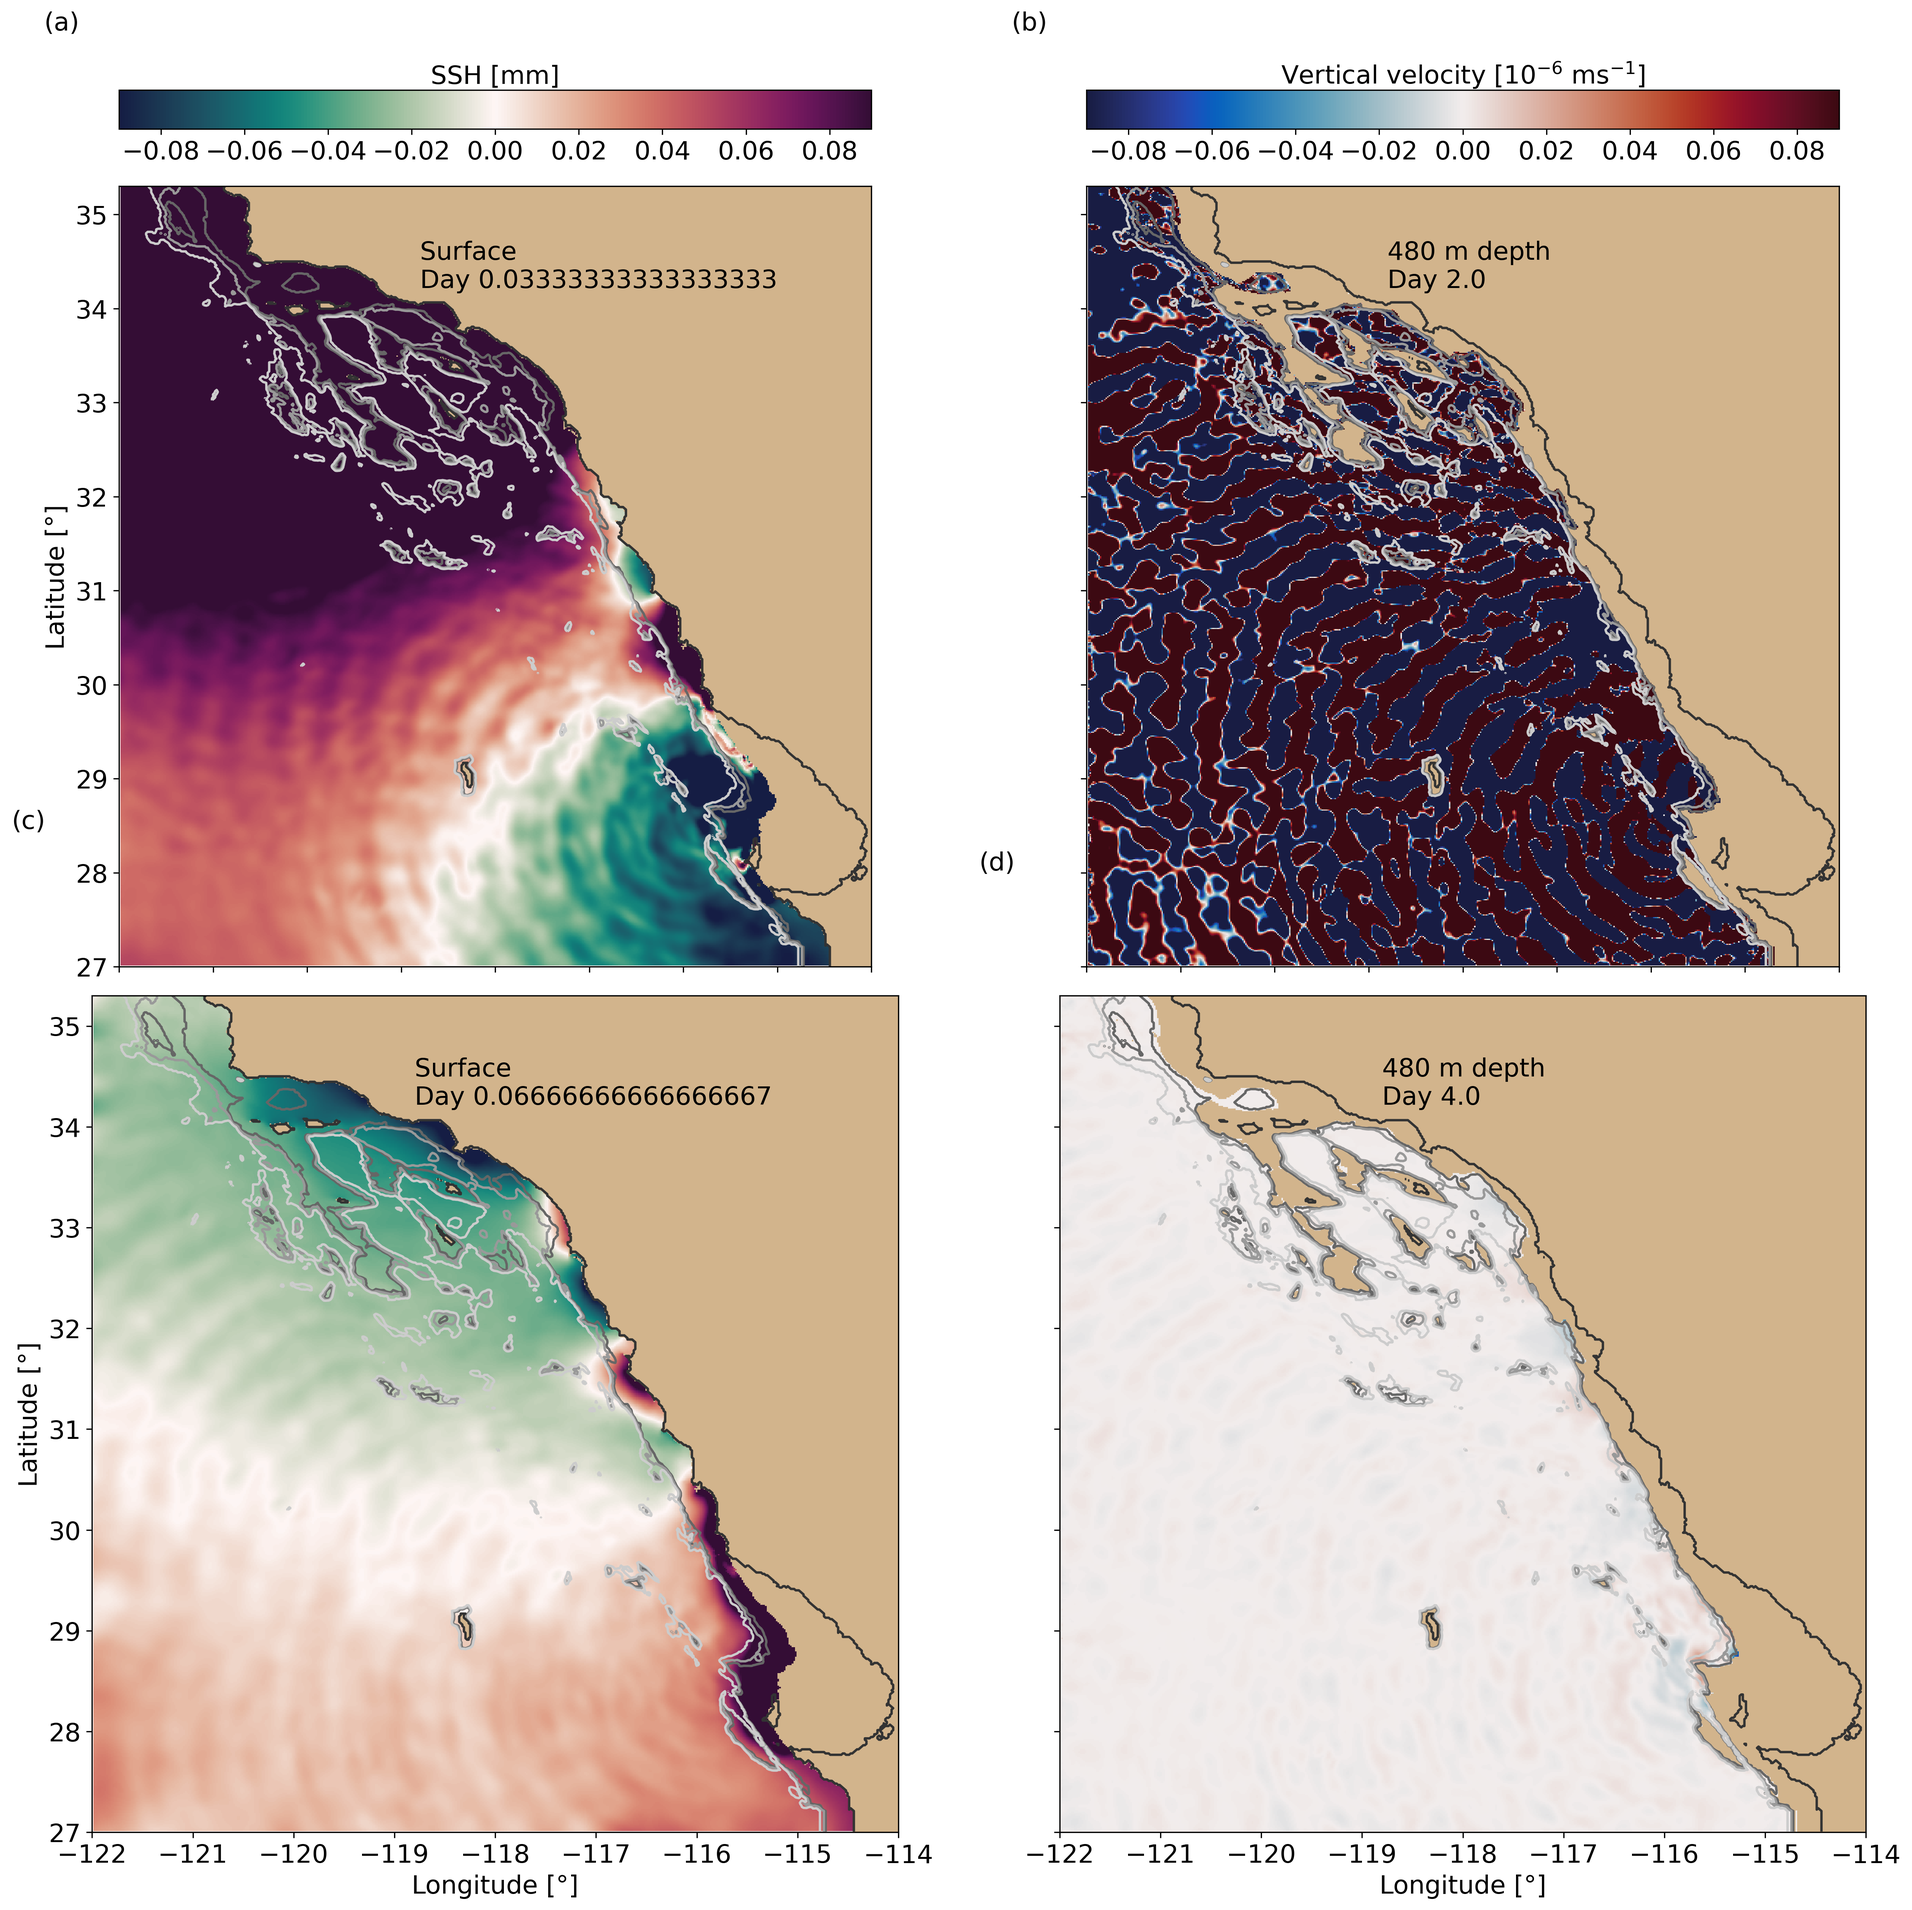
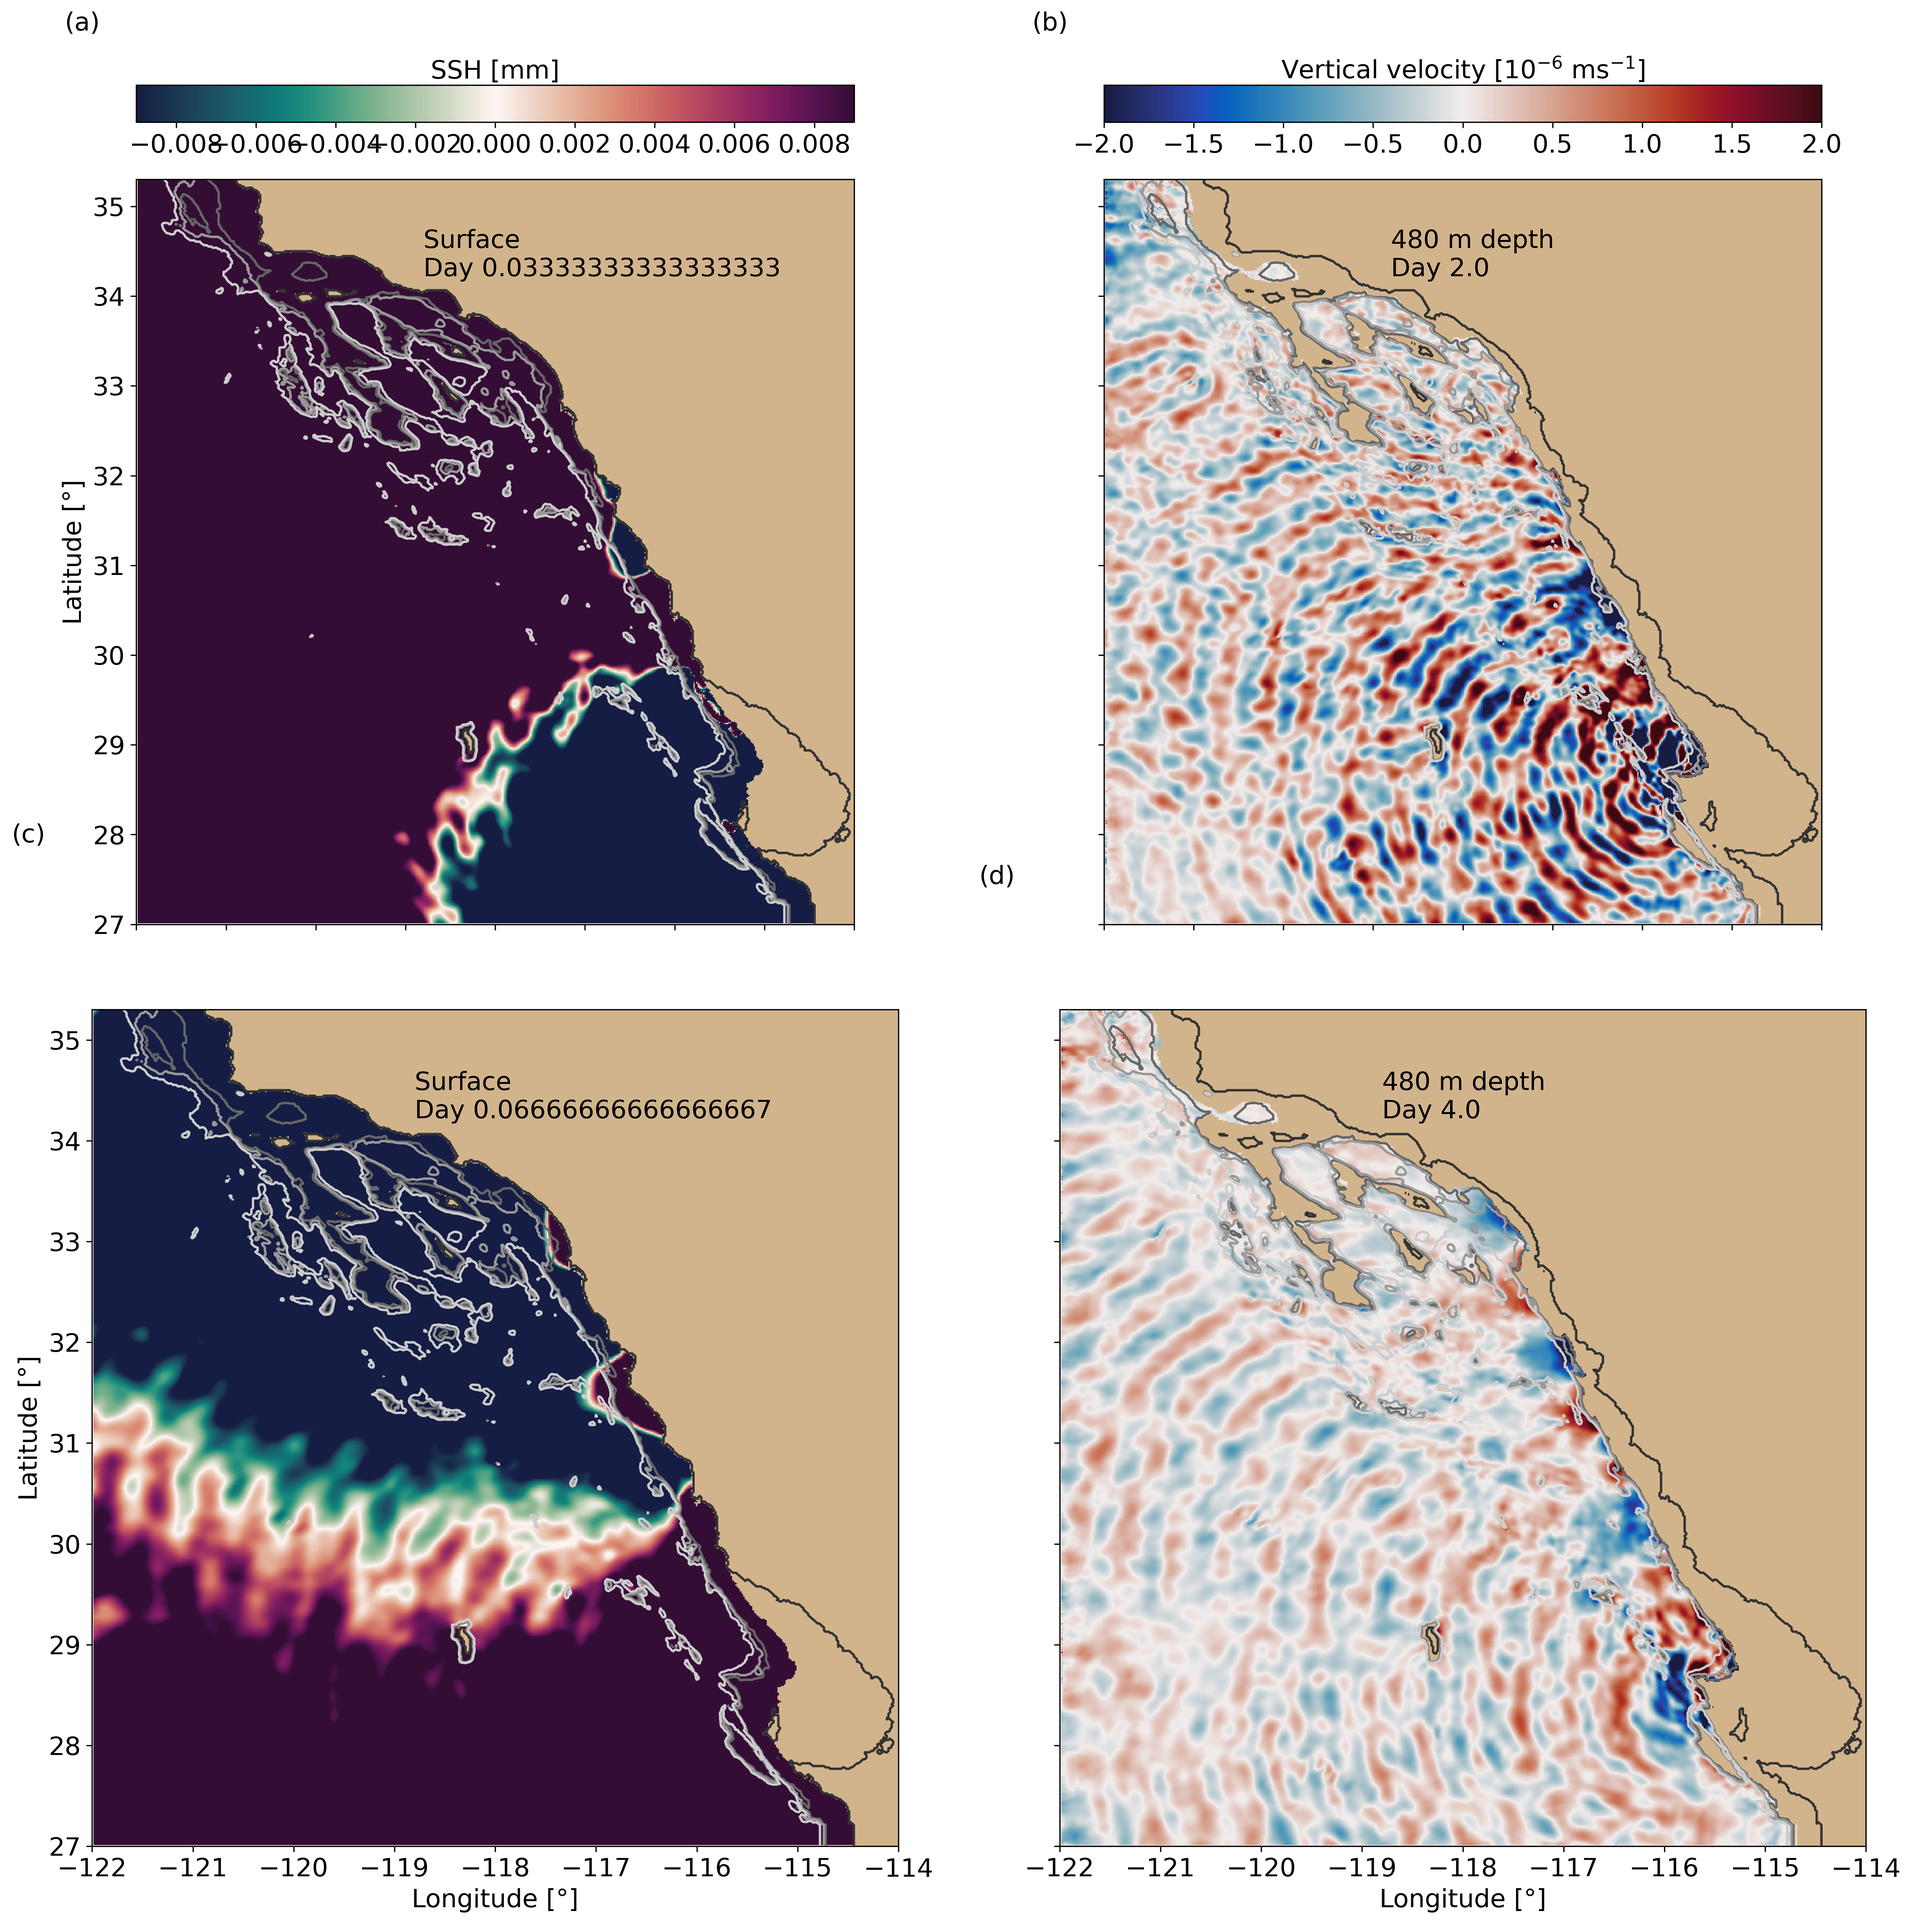
Figure of Waves

diff --git a/Scripts/Fig2WavesArticle.py b/Scripts/Fig2WavesArticle.py
@@ -8,7 +8,7 @@ import pylab as pl
 
 from SVBfunc import haversine
 
-coast = 'original'
+coast = 'smooth'
 
 i=0
 varname='dynVars'
@@ -36,19 +36,6 @@ Ww2=dsw2.WVEL[0,51,:,:].values
 Wn2=dsn2.WVEL[0,51,:,:].values
 time2=dsw2.time.values.astype(int)
 TIMEvel2=time2*1e-9
-
-i2=6
-varname='dynVars'
-pathn3='/home/athelandersson/NETCDFs/'+ str(coast) + '_NO/'+ str(varname)+'noSVB'+ str(2+i2)+'_'+ str(3+i2) +'.nc'
-pathw3='/home/athelandersson/NETCDFs/'+ str(coast) + '/'+ str(varname)+'withSVB'+ str(2+i2)+'_'+ str(3+i2) +'.nc'
-        
-dsw3  = xr.open_dataset(pathw3)
-dsn3 = xr.open_dataset(pathn3)
-
-Ww3=dsw3.WVEL[0,51,:,:].values
-Wn3=dsn3.WVEL[0,51,:,:].values
-time3=dsw3.time.values.astype(int)
-TIMEvel3=time3*1e-9
 
 
 i=0
@@ -96,10 +83,10 @@ plt.rcParams['figure.dpi'] = 300
 plt.rcParams['savefig.dpi'] = 300
 
 fig = plt.figure()
-gs = GridSpec(nrows=2, ncols=2,hspace=0.01)
+gs = GridSpec(nrows=2, ncols=2,hspace=0.1)
 
-vmin=-0.009*10
-vmax=0.009*10
+vmin=-0.0009*10
+vmax=0.0009*10
 
 xlab='Longitude [°]'
 ylab='Latitude [°]'
@@ -143,6 +130,9 @@ ax.set_ylim(27,35.3)
 ax.set_aspect(1)
 ax.set(ylabel=ylab,xlabel=xlab)
 
+vmin=-0.000002*1e6
+vmax=0.000002*1e6
+
 ax = fig.add_subplot(gs[0,1]) 
 ax.set_facecolor('tan')
 cax = ax.pcolormesh(LON,LAT,np.ma.masked_array(Ww-Wn, mask=mask[51,:,:])*1e6,cmap=cmocean.cm.balance,vmin=vmin,vmax=vmax)
@@ -167,9 +157,6 @@ ax.text(-0.1,1.2, '(b)', transform=ax.transAxes)
 ax.set_xlim(-122,-114) 
 ax.set_ylim(27,35.3)
 ax.set_aspect(1)
-
-vmin=-0.00002*1e6
-vmax=0.00002*1e6
 
 ax = fig.add_subplot(gs[1,1]) 
 ax.set_facecolor('tan')
